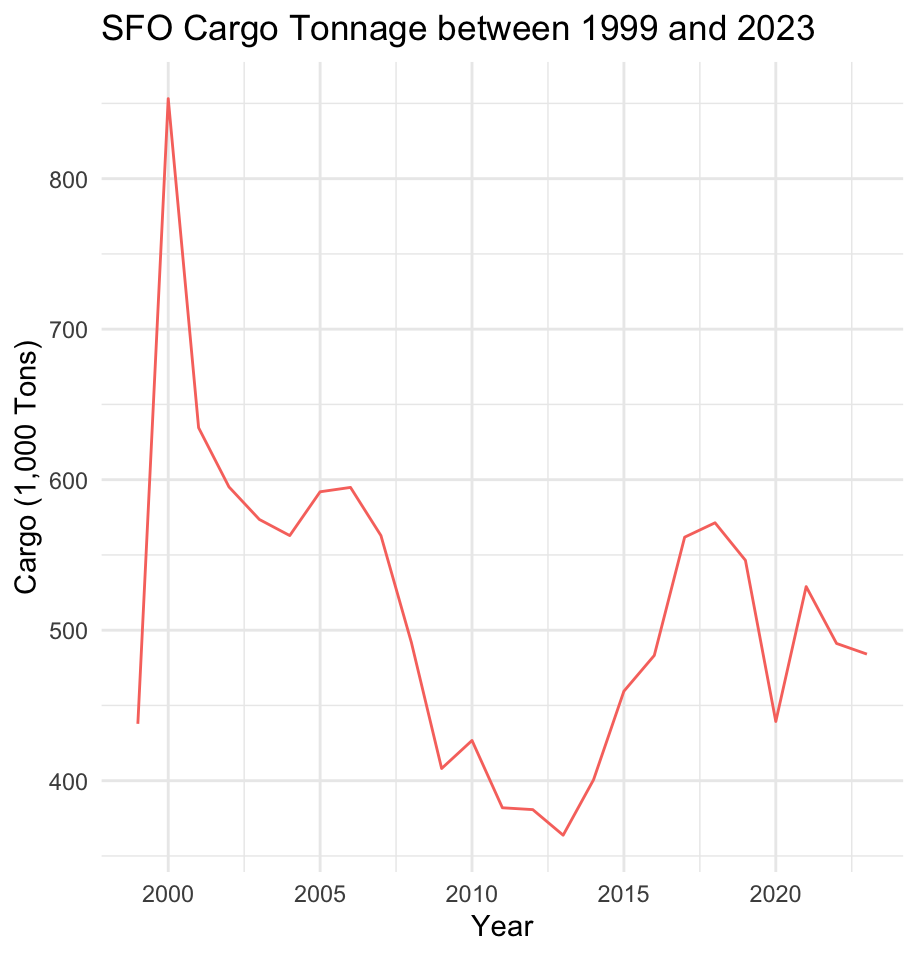
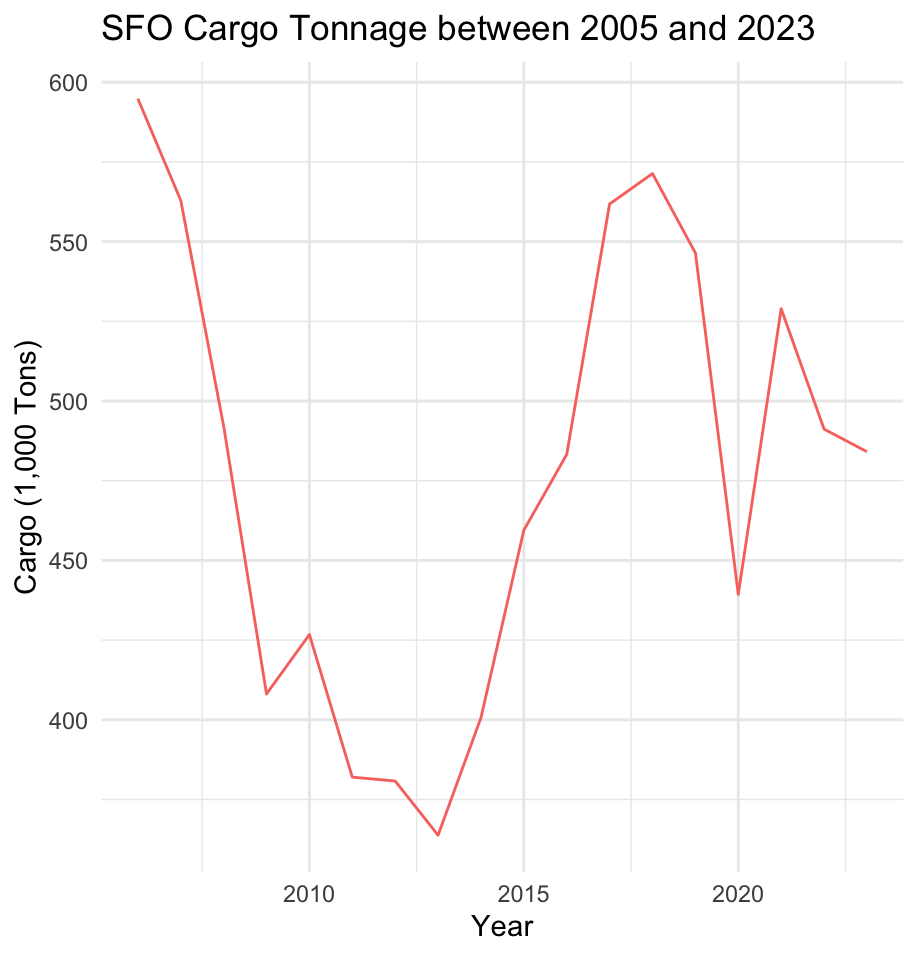
Start EDA

diff --git a/Part3/EDA/readme.md b/Part3/EDA/readme.md
@@ -1,0 +1,36 @@
+# EDA
+We have the data between July, 1999 and July, 2024. It includes the cargo tonnages on each airline every month in the given period. There are 55,542
+
+## Overview
+1 - Line Chart for Cargo Tonnage by Year
+<br>
+<img src=annual_tonnage.png>
+<img src=annual_tonnage_rollavg.png>
+
+
+<br>
+Since 2005, the cargo tonnage dropped significantly for 10 years. Even it barely recovers after 2015, but overall the tonnage trend is trending downward.
+
+<br><br>
+2 - Bar Chart for Cargo Tonnage along with Destination by Month
+
+<br>
+<img src=monthly_tonnage.png>
+<br>
+We see the monthly average cargo tonnage is relatively consistent, especially on domestic flights. The international cargo traffic is lower in Q1, but consistent for the reminding of the year. It indicates cargo tonnage is very insensitive to the seasonality effect and international trade is only relatively slow in Q1. 
+
+## Cargo Segmentation
+3 - Cargo Type Breakdown
+
+<br>
+<img src=EDA/percent_cargo.png>
+<br>
+We saw majority of the cargo traffic is classified as "Cargo", which accounted for 86.6%. For more time-senitive cargo, Mail cargo was accounted for 10.1% and 3.3% for Express cargo of the total cargo traffic.
+
+<br><br>
+4 - Aircraft Types
+
+<br>
+<img src=aircraft_type.png>
+<br>
+It might be a surprise to most people that most of the cargo was transported by passenger flights, about 68% of the cargo tonnage. Only 31% of the cargo traffic was transported by freighter flights.

diff --git a/Part3/readme.md b/Part3/readme.md
@@ -3,11 +3,9 @@ Coming soon...
 
 ## EDA
 Coming soon...
+<br><br>
+[EDA folder](EDA)
 
-<br><br>
-<img src=EDA/annual_tonnage.png>
-<br><br>
-<img src=EDA/percent_cargo.png>
 
 ## Reference
 Data from Open SF - <a href="https://data.sfgov.org/Transportation/Air-Traffic-Cargo-Statistics/u397-j8nr/about_data">link</a>
